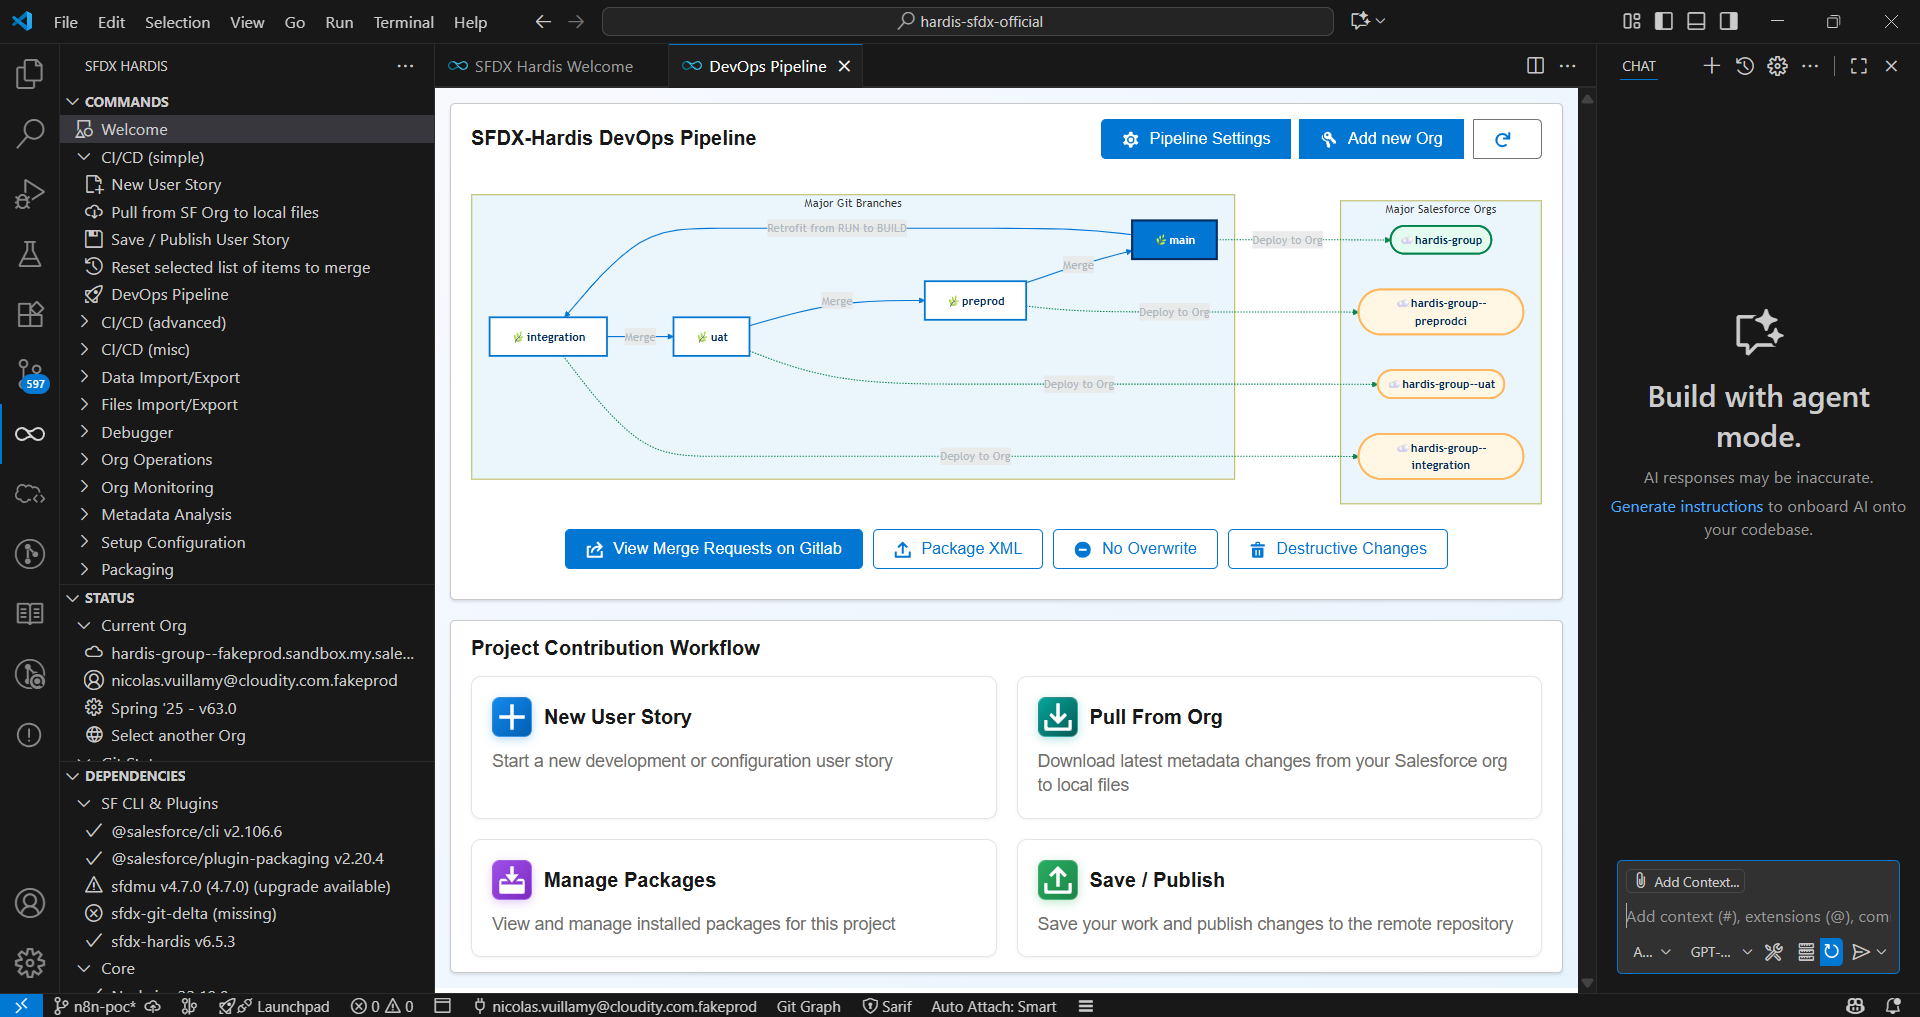
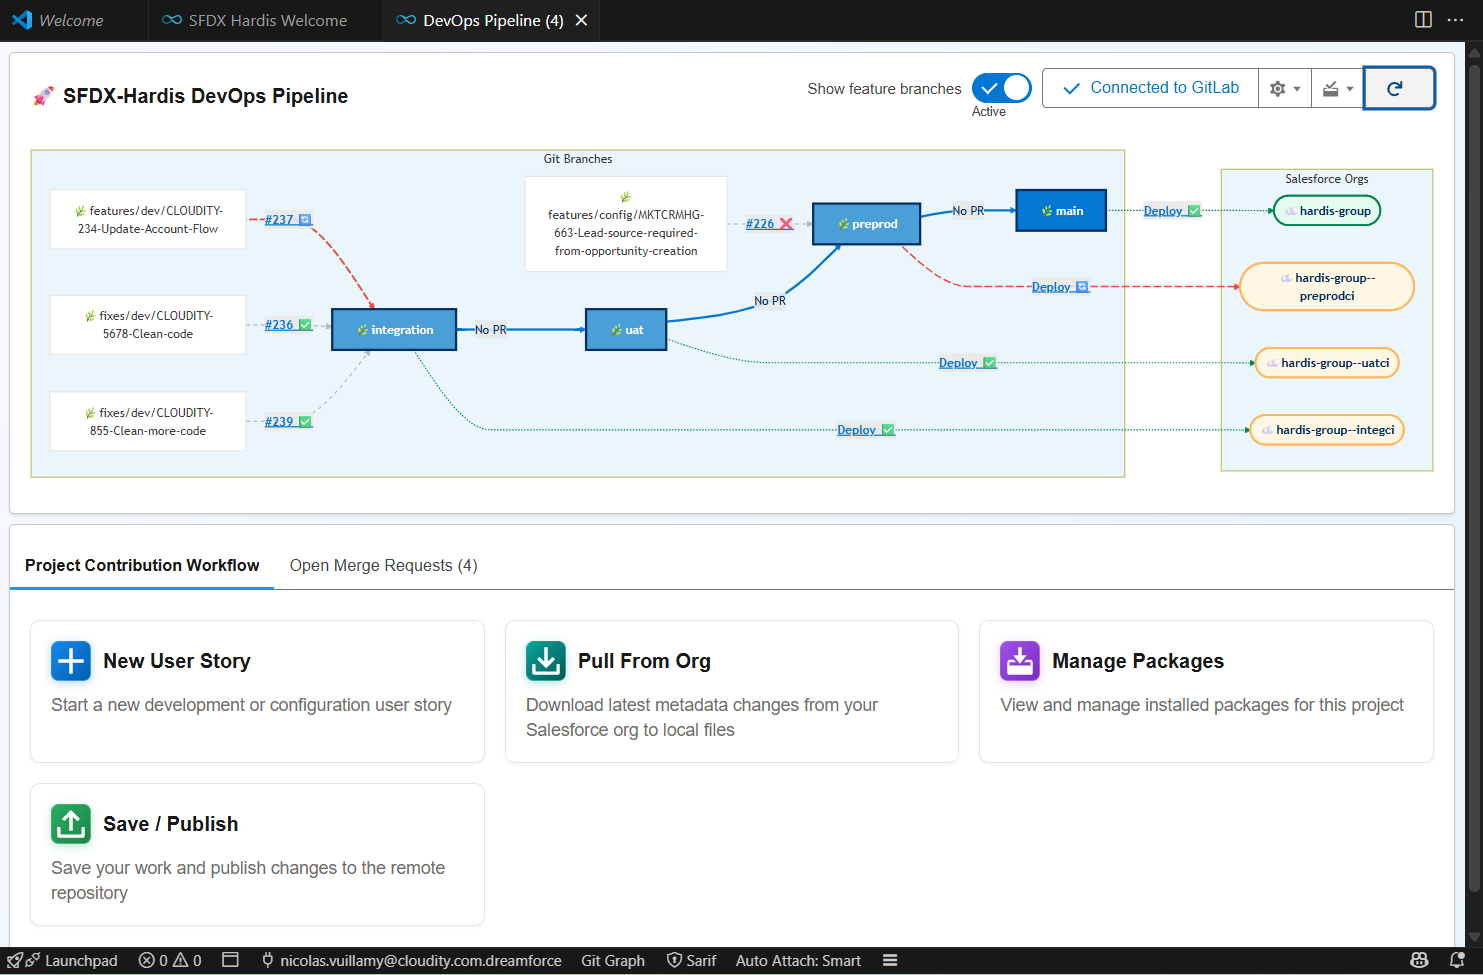
Updates branch naming and documentation (#1439)
* fix: update branch naming conventions in user story command and changelog

* Update doc

* Improve doc

diff --git a/docs/schema/sfdx-hardis-json-schema-parameters.html b/docs/schema/sfdx-hardis-json-schema-parameters.html
@@ -550,7 +550,7 @@ If defined, makes obsolete the parameter Default Pull Request target branch.</p>
                 d="M4 8a.5.5 0 0 1 .5-.5h5.793L8.146 5.354a.5.5 0 1 1 .708-.708l3 3a.5.5 0 0 1 0 .708l-3 3a.5.5 0 0 1-.708-.708L10.293 8.5H4.5A.5.5 0 0 1 4 8z"
             />
         </svg>
-    <a href="#branchPrefixChoices" onclick="anchorLink('branchPrefixChoices')">branchPrefixChoices</a></div><h4>New branches prefixes choices</h4><span class="badge badge-dark value-type">Type: array</span> <span class="badge badge-success default-value">Default: [{"title": "Feature", "value": "feat", "description": "New feature, evolution of an existing feature... If you don't know, just select Feature"}, {"title": "Debug", "value": "fix", "description": "A bug has been identified and you are the right person to solve it !"}]</span><br/>
+    <a href="#branchPrefixChoices" onclick="anchorLink('branchPrefixChoices')">branchPrefixChoices</a></div><h4>New branches prefixes choices</h4><span class="badge badge-dark value-type">Type: array</span> <span class="badge badge-success default-value">Default: [{"title": "Feature", "value": "feature", "description": "New feature, evolution of an existing feature... If you don't know, just select Feature"}, {"title": "Fix", "value": "fix", "description": "A bug has been identified and you are the right person to solve it !"}]</span><br/>
 <span class="description"><p>When calling hardis:work:new, you can override the default branch prefixes. Input title, value and description for each of them</p>
 </span>
         
@@ -563,7 +563,7 @@ If defined, makes obsolete the parameter Default Pull Request target branch.</p>
 <br/><button class="btn btn-light example-show collapsed" data-toggle="collapse" data-target="#branchPrefixChoices_ex1" aria-controls="branchPrefixChoices_ex1"></button><div id="branchPrefixChoices_ex1" class="collapse jumbotron examples"><div class="highlight"><pre><span></span><span class="p">[</span>
 <span class="w">    </span><span class="p">{</span>
 <span class="w">        </span><span class="s2">&quot;title&quot;</span><span class="o">:</span><span class="w"> </span><span class="s2">&quot;Feature&quot;</span><span class="p">,</span>
-<span class="w">        </span><span class="s2">&quot;value&quot;</span><span class="o">:</span><span class="w"> </span><span class="s2">&quot;feat&quot;</span><span class="p">,</span>
+<span class="w">        </span><span class="s2">&quot;value&quot;</span><span class="o">:</span><span class="w"> </span><span class="s2">&quot;feature&quot;</span><span class="p">,</span>
 <span class="w">        </span><span class="s2">&quot;description&quot;</span><span class="o">:</span><span class="w"> </span><span class="s2">&quot;New feature, evolution of an existing feature... If you don&#39;t know, just select Feature&quot;</span>
 <span class="w">    </span><span class="p">},</span>
 <span class="w">    </span><span class="p">{</span>
@@ -6469,6 +6469,6 @@ Note: Smart Deployment Tests will be applied only for Pull Requests from minor (
 </div>
 
     <footer>
-        <p class="generated-by-footer">Generated using <a href="https://github.com/coveooss/json-schema-for-humans">json-schema-for-humans</a> on 2025-09-11 at 00:42:42 +0200</p>
+        <p class="generated-by-footer">Generated using <a href="https://github.com/coveooss/json-schema-for-humans">json-schema-for-humans</a> on 2025-10-05 at 23:26:36 +0200</p>
     </footer></body>
 </html>

diff --git a/src/commands/hardis/work/new.ts b/src/commands/hardis/work/new.ts
@@ -118,12 +118,12 @@ The command's logic orchestrates various underlying processes:
     const defaultBranchPrefixChoices = [
       {
         title: '🏗 Feature',
-        value: 'features',
+        value: 'feature',
         description: "New feature, evolution of an existing feature... If you don't know, just select Feature",
       },
       {
-        title: '🛠 Debug',
-        value: 'fixes',
+        title: '🛠 Fix',
+        value: 'fix',
         description: 'A bug has been identified and you are the right person to solve it !',
       },
     ];
@@ -160,39 +160,14 @@ The command's logic orchestrates various underlying processes:
         initial: 0,
         choices: branchPrefixChoices,
       },
-      {
-        type: 'select',
-        name: 'sources',
-        message: c.cyanBright('What type(s) of Salesforce updates will you implement to perform this User Story ?'),
-        description: 'Choose the type of changes you will make to help set up the appropriate development environment',
-        placeholder: 'Select update type',
-        initial: 0,
-        choices: [
-          {
-            title: '🥸 Configuration',
-            value: 'config',
-            description: 'You will update anything in the setup except apex code :)',
-          },
-          {
-            title: '🤓 Development',
-            value: 'dev',
-            description: 'You are a developer who will do magic with Apex or Javascript !',
-          },
-          {
-            title: '🥸🤓 Configuration + Development',
-            value: 'dev',
-            description: 'Like the unicorn you are, you will update configuration but also write code :)',
-          },
-        ],
-      }
     ]);
 
     // Request task name
     const taskName = await this.promptTaskName(config.newTaskNameRegex || null, config.newTaskNameRegexExample || null);
 
     // Checkout development main branch
-    const branchName = `${projectBranchPart}${response.branch || 'features'}/${response.sources || 'dev'}/${taskName}`;
-    const repoUrl = await getGitRepoUrl()
+    const branchName = `${projectBranchPart}${response.branch || 'feature'}/${taskName}`;
+    const repoUrl = await getGitRepoUrl();
     uxLog(
       "action",
       this,

diff --git a/docs/salesforce-ci-cd-home.md b/docs/salesforce-ci-cd-home.md
@@ -4,93 +4,114 @@ description: Easy handling of Salesforce DX to use CI/CD & DevOps principles on 
 ---
 <!-- markdownlint-disable MD013 -->
 
-- [Introduction](#introduction)
-- [Use sfdx-hardis CI/CD](#use-sfdx-hardis-cicd)
-- [Release Management](#release-management)
-- [Setup sfdx-hardis CI/CD](#setup-sfdx-hardis-cicd)
+- [Why choose sfdx-hardis?](#why-choose-sfdx-hardis)
+  - [Because it is user-friendly](#because-it-is-user-friendly)
+  - [Because it is powerful](#because-it-is-powerful)
+  - [Because there are no license costs](#because-there-are-no-license-costs)
+  - [Because it is widely adopted](#because-it-is-widely-adopted)
+- [Get started](#get-started)
+  - [Setup sfdx-hardis](#setup-sfdx-hardis)
+  - [As a Contributor](#as-a-contributor)
+  - [As a Release Manager](#as-a-release-manager)
 
 ___
 
-## Introduction
+## Why choose sfdx-hardis?
 
-There are many ways to do DevOps with Salesforce, each of them have their advantages and inconveniences, like showed in the following comparison table.
+There are many ways to do DevOps with Salesforce. Each has its advantages and limitations, as shown in the following comparison table.
 
 ![](assets/images/devops-comparison.png){ align=center }
 
-Why choosing sfdx-hardis ?
+### Because it is user-friendly
 
-- **Admins** are autonomous to [build their pull requests](https://sfdx-hardis.cloudity.com/salesforce-ci-cd-publish-task/) **with clicks in VsCode Extension, no command lines**
-- **Developers** understand what's happening under the hood with SF CLI thanks to the **Advanced mode** of the User Interface
-- **Release Managers** can easily configure the CI/CD process using the **Visual DevOps Pipeline Builder**
-- **Project Managers** can easily follow the Application Lifecycle Management on the project using sfdx-hardis native integration with Ticketing systems like JIRA and Azure Boards.
+![DevOps Pipeline](assets/images/sfdx-hardis-pipeline-view.gif)
 
-More advanced features are making sfdx-hardis a credible alternative to expensive SF DevOps vendor tools:
+- **Admins** can [build their pull requests](https://sfdx-hardis.cloudity.com/salesforce-ci-cd-publish-task/) using the **VS Code extension** with clicks, no command line required.
+- **Developers** understand what's happening under the hood with the **Salesforce CLI**, thanks to the **Advanced mode** in the UI.
+- **Release Managers** can configure the CI/CD process using the **Visual DevOps Pipeline Builder**.
+- **Project Managers** can follow application lifecycle management using sfdx-hardis **native integrations** with ticketing systems like **Jira** and **Azure Boards**.
 
-- [**Delta Deployments**](salesforce-ci-cd-config-delta-deployment.md): Improve performances by deploying only updated metadatas
-- [**Overwrite Management**](salesforce-ci-cd-config-overwrite.md): Define which metadatas will never be overwritten if they are already existing in the target org of a deployment
-- [**Smart Apex Test Runs**](https://sfdx-hardis.cloudity.com/hardis/project/deploy/smart/#smart-deployments-tests): If your Pull Request to a sandbox can not break Apex Tests, just don't run them to improve performances.
-- [**Automated sources cleaning**](salesforce-ci-cd-config-cleaning.md): Clean profiles from attributes existing on permission sets, clean flow positions...
-- [**Integration with Messaging platforms**](salesforce-ci-cd-setup-integrations-home.md): Receive detailed deployment notifications on **Slack**, **Microsoft Teams** and Emails
-- Integration with **ticketing systems**: [**JIRA**](https://sfdx-hardis.cloudity.com/salesforce-ci-cd-setup-integration-jira/), [**Azure Boards**](https://sfdx-hardis.cloudity.com/salesforce-ci-cd-setup-integration-azure-boards/), or [any other tool](https://sfdx-hardis.cloudity.com/salesforce-ci-cd-setup-integration-generic-ticketing/)
-- [**Integration with AI**](salesforce-deployment-assistant-home.md) to easily solve Deployment issues
+### Because it is powerful
 
-We provide **ready to use CI/CD pipeline workflows** for the following Git platforms, with results of Deployment simulation jobs as comments on Pull Requests:
+Advanced features make sfdx-hardis a credible alternative to expensive Salesforce DevOps tools:
 
-- [Gitlab](https://github.com/hardisgroupcom/sfdx-hardis/blob/main/defaults/ci/.gitlab-ci.yml)
+- [**Delta Deployments**](salesforce-ci-cd-config-delta-deployment.md): Improve performance by deploying only updated metadata.
+- [**Overwrite Management**](salesforce-ci-cd-config-overwrite.md): Define which metadata will never be overwritten if it already exists in the target org.
+- [**Smart Apex Test Runs**](https://sfdx-hardis.cloudity.com/hardis/project/deploy/smart/#smart-deployments-tests): If your pull request to a sandbox cannot break Apex tests, skip them to improve performance.
+- [**Automated source cleaning**](salesforce-ci-cd-config-cleaning.md): Clean profiles of attributes that exist in permission sets, tidy flow element positions, and more.
+- [**Integration with messaging platforms**](salesforce-ci-cd-setup-integrations-home.md): Receive detailed deployment notifications on **Slack**, **Microsoft Teams**, and email.
+- Integration with **ticketing systems**: [**Jira**](https://sfdx-hardis.cloudity.com/salesforce-ci-cd-setup-integration-jira/), [**Azure Boards**](https://sfdx-hardis.cloudity.com/salesforce-ci-cd-setup-integration-azure-boards/), or [any other tool](https://sfdx-hardis.cloudity.com/salesforce-ci-cd-setup-integration-generic-ticketing/).
+- [**AI integration**](salesforce-deployment-assistant-home.md) to help resolve deployment issues (use Agentforce or direct calls to OpenAI, Anthropic, Gemini).
+
+We provide **ready-to-use CI/CD pipeline workflows** for the following Git platforms, with the results of deployment simulation jobs posted as comments on pull requests:
+
+- [GitLab](https://github.com/hardisgroupcom/sfdx-hardis/blob/main/defaults/ci/.gitlab-ci.yml)
 - [Azure](https://github.com/hardisgroupcom/sfdx-hardis/blob/main/defaults/ci/azure-pipelines-checks.yml)
-- [Github & Gitea](https://github.com/hardisgroupcom/sfdx-hardis/blob/main/defaults/ci/.github/workflows/deploy.yml)
-- [BitBucket](https://github.com/hardisgroupcom/sfdx-hardis/blob/main/defaults/ci/bitbucket-pipelines.yml)
+- [GitHub & Gitea](https://github.com/hardisgroupcom/sfdx-hardis/blob/main/defaults/ci/.github/workflows/deploy.yml)
+- [Bitbucket](https://github.com/hardisgroupcom/sfdx-hardis/blob/main/defaults/ci/bitbucket-pipelines.yml)
 - [Jenkins](https://github.com/hardisgroupcom/sfdx-hardis/blob/main/defaults/ci/Jenkinsfile)
 
-Pipelines can easily be adapted to other platforms like [TeamCity](https://www.jetbrains.com/teamcity/)
+Pipelines can easily be adapted to other platforms like [TeamCity](https://www.jetbrains.com/teamcity/).
 
-If you speak fluently **git**, **sfdx** & **DevOps**, you can be fully autonomous to setup and use Salesforce CI/CD, otherwise you can contact us at [**Cloudity**](https://cloudity.com/) (or your favorite Salesforce integrator) and we'll be glad to assist you :)
-
-As everything is **open-source**, there is **no license costs** !
-
-![DevOps Pipeline](assets/images/DevOpsPipelineUI.png)
-
-[![Questions/Answers](https://github.com/hardisgroupcom/sfdx-hardis/raw/main/docs/assets/images/article-questions-answers.jpg)](https://nicolas.vuillamy.fr/what-devops-experts-want-to-know-about-salesforce-ci-cd-with-sfdx-hardis-q-a-1f412db34476)
-
-_See presentation of sfdx-hardis at Dreamforce !_
-
-<div style="text-align:center"><iframe width="560" height="315" src="https://www.youtube.com/embed/o0Mm9F07UFs" title="YouTube video player" frameborder="0" allow="accelerometer; autoplay; clipboard-write; encrypted-media; gyroscope; picture-in-picture" allowfullscreen></iframe></div>
-
-_See Slides of [Dreamforce 23 session](https://reg.salesforce.com/flow/plus/df23/sessioncatalog/page/catalog/session/1684196389783001OqEl){target=_blank}_
-
-<iframe src="https://www.slideshare.net/slideshow/embed_code/key/qroQjoKmRUUjqx?hostedIn=slideshare&page=upload" width="714" height="600" frameborder="0" marginwidth="0" marginheight="0" scrolling="no"></iframe>
-
-_Here is an advanced example of a Salesforce CI/CD Pipeline that you can easily define using sfdx-hardis._
-_You can define much simpler branch/orgs models, to manage only RUN operations._
+_Here is an advanced example of a Salesforce CI/CD pipeline that you can define using sfdx-hardis._
+_You can define much simpler branch/org models to manage only RUN operations._
 
 ![](assets/images/ci-cd-schema-main.jpg){ align=center }
 
-_See detailed article on SalesforceDevOps.net_
+[![Questions/Answers](https://github.com/hardisgroupcom/sfdx-hardis/raw/main/docs/assets/images/article-questions-answers.jpg)](https://nicolas.vuillamy.fr/what-devops-experts-want-to-know-about-salesforce-ci-cd-with-sfdx-hardis-q-a-1f412db34476)
+
+### Because there are no license costs
+
+As everything is **open source**, there are **no license costs**!
+
+> In comparison, many Salesforce DevOps vendors charge more than 250€/user/month per contributor.
+
+You can handle everything yourself, or ask [**Cloudity**](https://cloudity.com/) Professional Services for support.
+
+### Because it is widely adopted
+
+sfdx-hardis CI/CD is used in production by major companies around the world.
+
+![](assets/images/sfdx-hardis-usage.png)
+
+It is also featured in many conferences, blogs, and webinars.
+
+_See the presentation of sfdx-hardis at Dreamforce!_
+
+<div style="text-align:center"><iframe width="560" height="315" src="https://www.youtube.com/embed/o0Mm9F07UFs" title="YouTube video player" frameborder="0" allow="accelerometer; autoplay; clipboard-write; encrypted-media; gyroscope; picture-in-picture" allowfullscreen></iframe></div>
+
+_See slides of the [Dreamforce '23 session](https://reg.salesforce.com/flow/plus/df23/sessioncatalog/page/catalog/session/1684196389783001OqEl){target=_blank}_
+
+<iframe src="https://www.slideshare.net/slideshow/embed_code/key/qroQjoKmRUUjqx?hostedIn=slideshare&page=upload" width="714" height="600" frameborder="0" marginwidth="0" marginheight="0" scrolling="no"></iframe>
+
+_See a detailed article on SalesforceDevOps.net_
 
 [![](assets/images/article-cicd-salesforcedevopsnet.jpg)](https://salesforcedevops.net/index.php/2023/03/01/sfdx-hardis-open-source-salesforce-release-management/){target=_blank}
 
-_See quick demo video for a Contributor_
-
-<div style="text-align:center"><iframe width="560" height="315" src="https://www.youtube.com/embed/zEYqTd2txU4" title="YouTube video player" frameborder="0" allow="accelerometer; autoplay; clipboard-write; encrypted-media; gyroscope; picture-in-picture" allowfullscreen></iframe></div>
-
 ___
 
-## Use sfdx-hardis CI/CD
+## Get started
 
-Please read [Contributor Guide](salesforce-ci-cd-use-home.md) to know how to work on CI/CD projects, as an **Business consultant**, a **Developer** or a **Release Manager**
+### Setup sfdx-hardis
 
-___
+If you are comfortable with **Git**, **Salesforce CLI**, and **DevOps**, you can set up and use sfdx-hardis CI/CD on your own.
 
-## Release Management
+You can also contact us at [**Cloudity**](https://cloudity.com/). Our Professional Services team will be glad to assist you with:
 
-Please read [Release Manager Guide](salesforce-ci-cd-release-home.md) to know how to be a release manager on Salesforce CI/CD project.
+- Technical setup and initialization from your existing Salesforce production org
+- Release management strategy definition
+- Training for your contributors and release managers
+- Change management to accelerate DevOps adoption in your organization
 
-___
+Please read the [Setup Guide](salesforce-ci-cd-setup-home.md) to learn how to initialize and maintain a Salesforce CI/CD project.
 
-## Setup sfdx-hardis CI/CD
+### As a Contributor
 
-Please read [Setup Guide](salesforce-ci-cd-setup-home.md) to know how to initialize and maintain a Salesforce CI/CD project.
+Please read the [Contributor Guide](salesforce-ci-cd-use-home.md) to learn how to work on CI/CD projects as a **Business Analyst**, **Salesforce Administrator**, or **Salesforce Developer**.
 
+### As a Release Manager
+
+Please read the [Release Manager Guide](salesforce-ci-cd-release-home.md) to learn how to be a release manager on a Salesforce CI/CD project.
 
 
 

diff --git a/CHANGELOG.md b/CHANGELOG.md
@@ -4,9 +4,13 @@
 
 Note: Can be used with `sfdx plugins:install sfdx-hardis@beta` and docker image `hardisgroupcom/sfdx-hardis@beta`
 
+## [6.6.0] 2025-10-05
+
 - [hardis:project:deploy:smart](https://sfdx-hardis.cloudity.com/hardis/project/deploy/smart/): Enhance beta feature **useDeltaDeploymentWithDependencies** to add more dependencies to the delta deployment package (see [related documentation](https://sfdx-hardis.cloudity.com/salesforce-ci-cd-config-delta-deployment/#delta-with-dependencies-beta))
+- Remove `dev` or `config` parts of the new git branches, as it is not relevant
 - Update global variables documentation to add AI related ones
 - Add more events about sfdx-hardis in the documentation
+- Update CI/CD Home Page documentation
 
 ## [6.5.4] 2025-09-27
 

diff --git a/README.md b/README.md
@@ -23,7 +23,7 @@ It is free and Open-Source, and will allow you to simply:
 
 - [Deliver your projects with **State of the art Salesforce DevOps**](https://sfdx-hardis.cloudity.com/salesforce-ci-cd-home/)
 
-![DevOps Pipeline UI](https://sfdx-hardis.cloudity.com/assets/images/DevOpsPipelineUI.png)
+![DevOps Pipeline UI](https://sfdx-hardis.cloudity.com/assets/images/sfdx-hardis-pipeline-view.gif)
 
 - [**Backup Metadatas** and **Monitor your Salesforce orgs**](https://sfdx-hardis.cloudity.com/salesforce-monitoring-home/)
 
